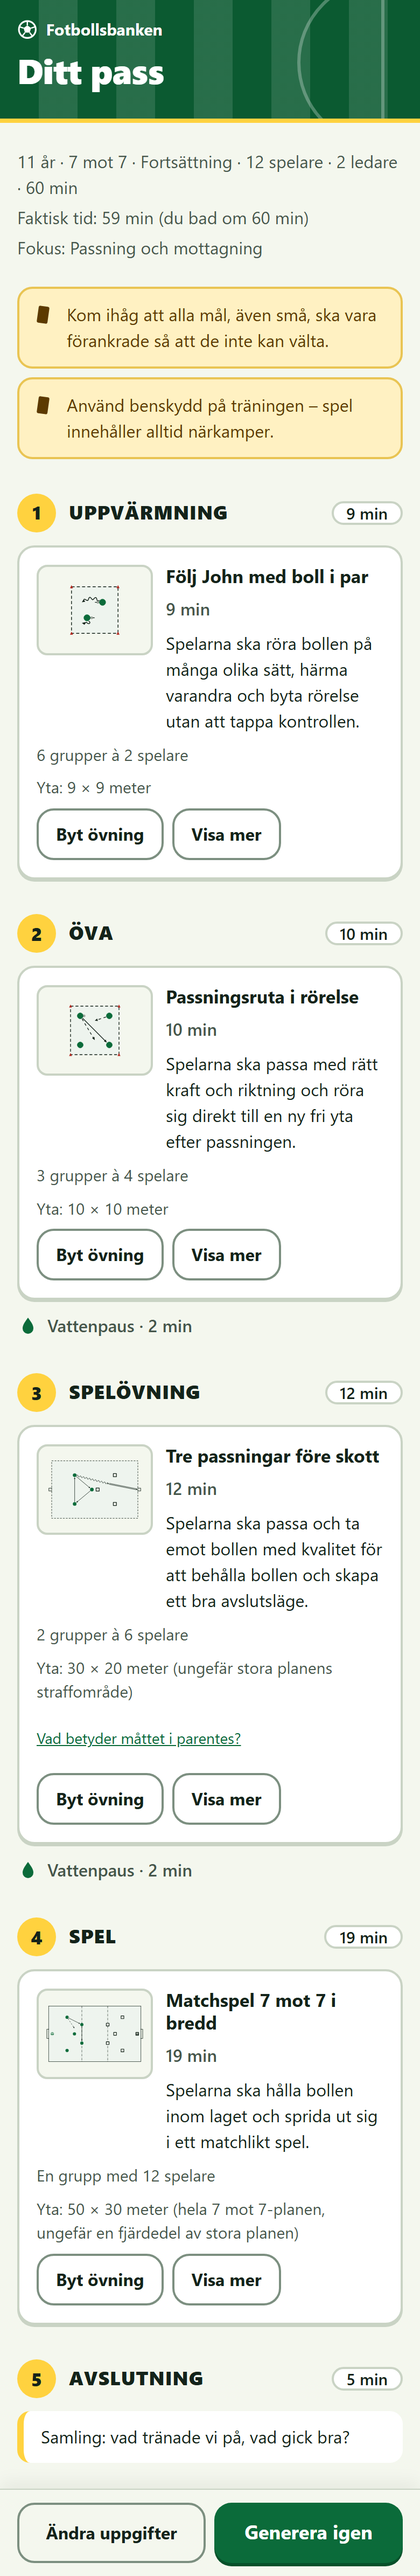
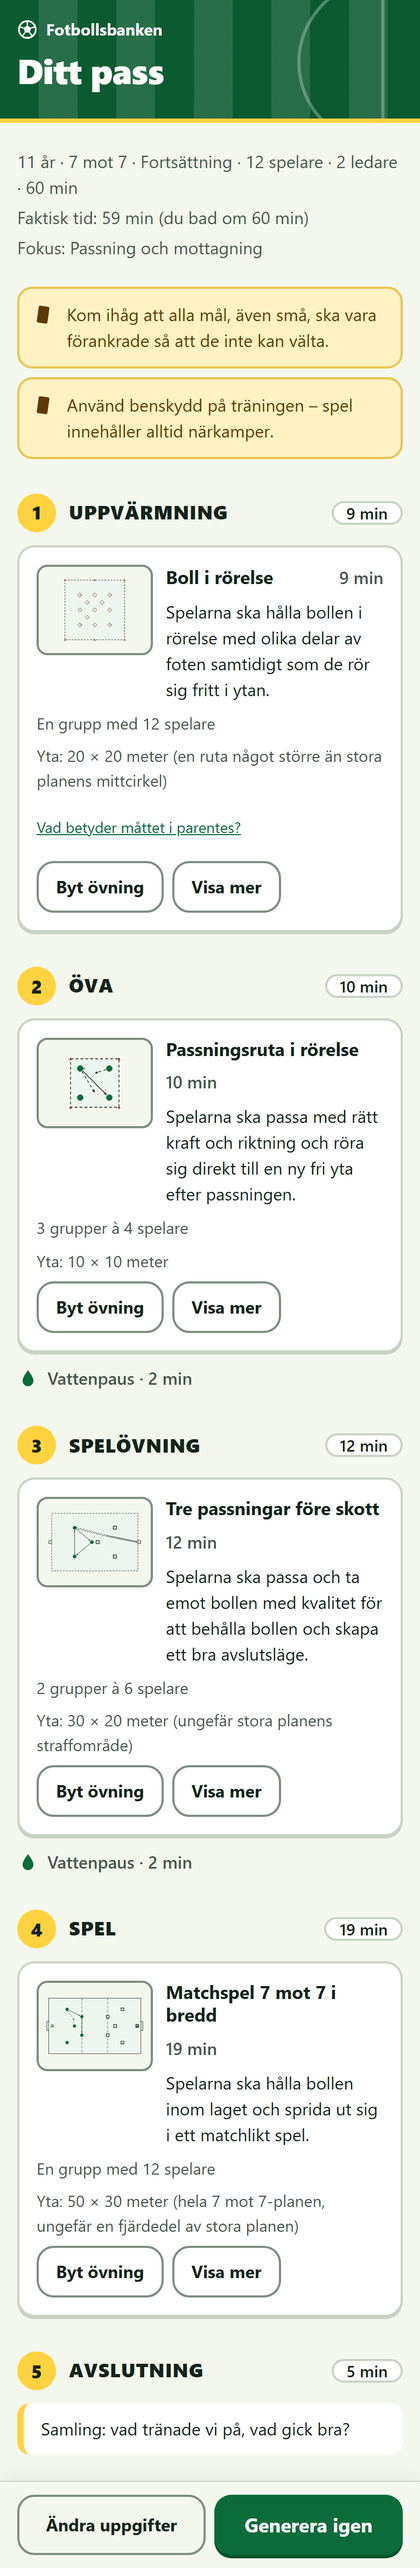
Rätta miniatyrens kant och radbrytningen efter granskningen av riktning A
Miniatyrknappen får fältkantens färg i viloläge (minst 3:1). Kortet byter
till en kolumn efter sin egen bredd i rem, så att det följer också
webbläsarens textstorlek, och miniatyren sträcks inte ut. Delnamnet bryts
inte mitt i ordet. Nya skärmbilder, också med stor text.

diff --git a/src/app/session/ExerciseCard.module.css b/src/app/session/ExerciseCard.module.css
@@ -53,20 +53,30 @@
   grid-row: auto;
 }
 
-/* Vid smal skärm eller förstorad text (200 % vid 390 px) får texten inte plats bredvid
-   miniatyren. Då står allt i en kolumn, så att sidan aldrig skrollar i sidled. */
-@media (max-width: 20em) {
-  .card {
-    grid-template-columns: minmax(0, 1fr);
-  }
+/*
+ * När kortet är smalt, på en smal skärm eller med förstorad text, får texten inte plats
+ * bredvid miniatyren. Då står allt i en kolumn, så att sidan aldrig skrollar i sidled.
+ * Frågan ställs mot kortets bredd i rem, så att den följer både skärmbredd, zoom och
+ * webbläsarens textstorlek. Vänsterkolumnen blir då tom och noll bred.
+ */
+.card {
+  container-type: inline-size;
+}
 
+@container (max-width: 18rem) {
   .head,
   .confirmation,
   .purpose,
   .sketch > *,
   .sketch button[aria-expanded] {
-    grid-column: 1;
+    grid-column: 1 / -1;
     grid-row: auto;
+  }
+
+  /* Miniatyrknappen behåller sin storlek och sträcks inte ut över kortet. */
+  .sketch > *,
+  .sketch button[aria-expanded] {
+    justify-self: start;
   }
 }
 
@@ -82,6 +92,7 @@
   font-size: 1.0625rem;
   font-weight: 700;
   line-height: 1.25;
+  min-width: 0;
   margin: 0;
   overflow-wrap: break-word;
 }

diff --git a/src/app/session/SessionView.module.css b/src/app/session/SessionView.module.css
@@ -70,9 +70,11 @@
   font-weight: 800;
 }
 
+/* Namnet krymper aldrig under sitt längsta ord, så att ordet inte bryts mitt i. Får det inte
+   plats bredvid siffran hamnar det på en egen rad, och tidspillen under. Bara ett ord som är
+   bredare än hela raden bryts. */
 .partName {
-  flex: 1 1 8rem;
-  min-width: 0;
+  flex: 1 1 auto;
   text-transform: uppercase;
   letter-spacing: 0.03em;
   overflow-wrap: break-word;

diff --git a/src/app/planskiss/Planskissvy.module.css b/src/app/planskiss/Planskissvy.module.css
@@ -73,7 +73,7 @@
   min-width: var(--tap-target);
   min-height: var(--tap-target);
   padding: var(--space-1);
-  border: 2px solid var(--color-card-border);
+  border: 2px solid var(--color-field-border);
   border-radius: 10px;
   background: var(--color-bg);
   color: inherit;
